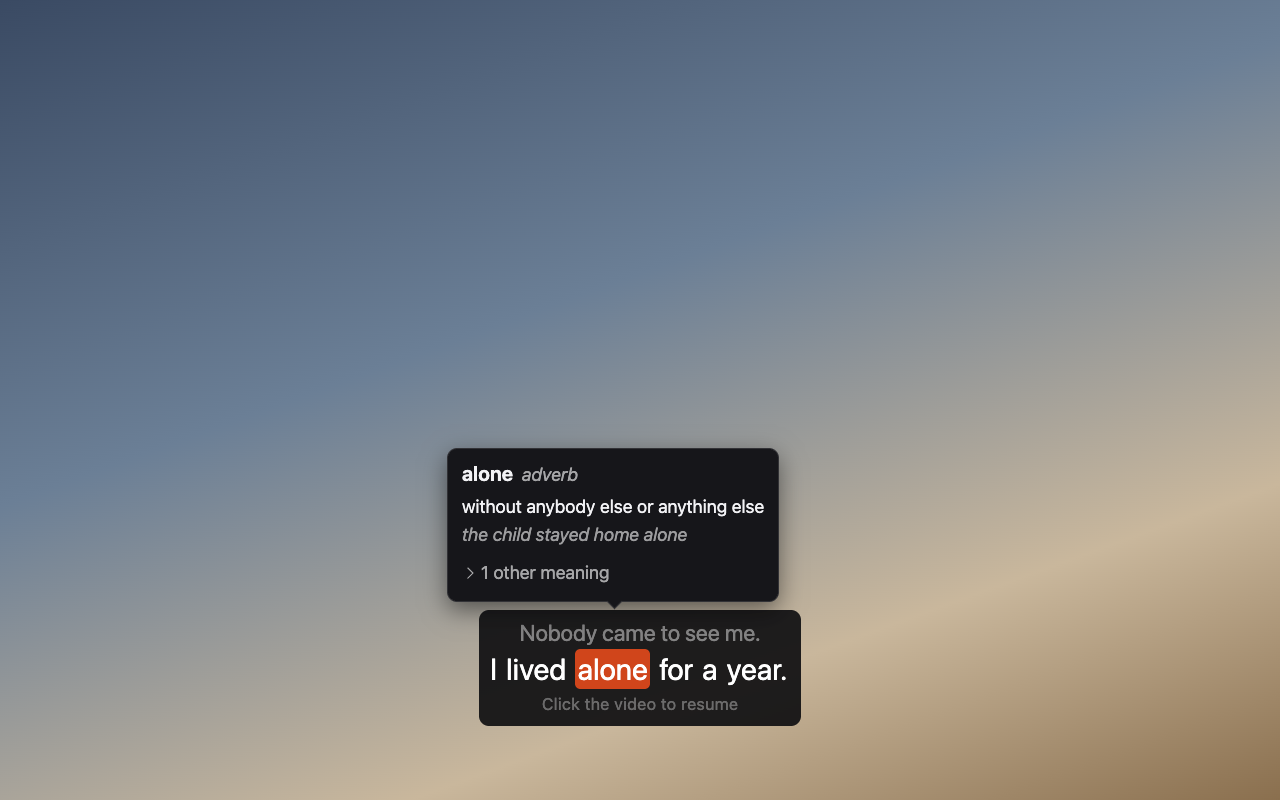
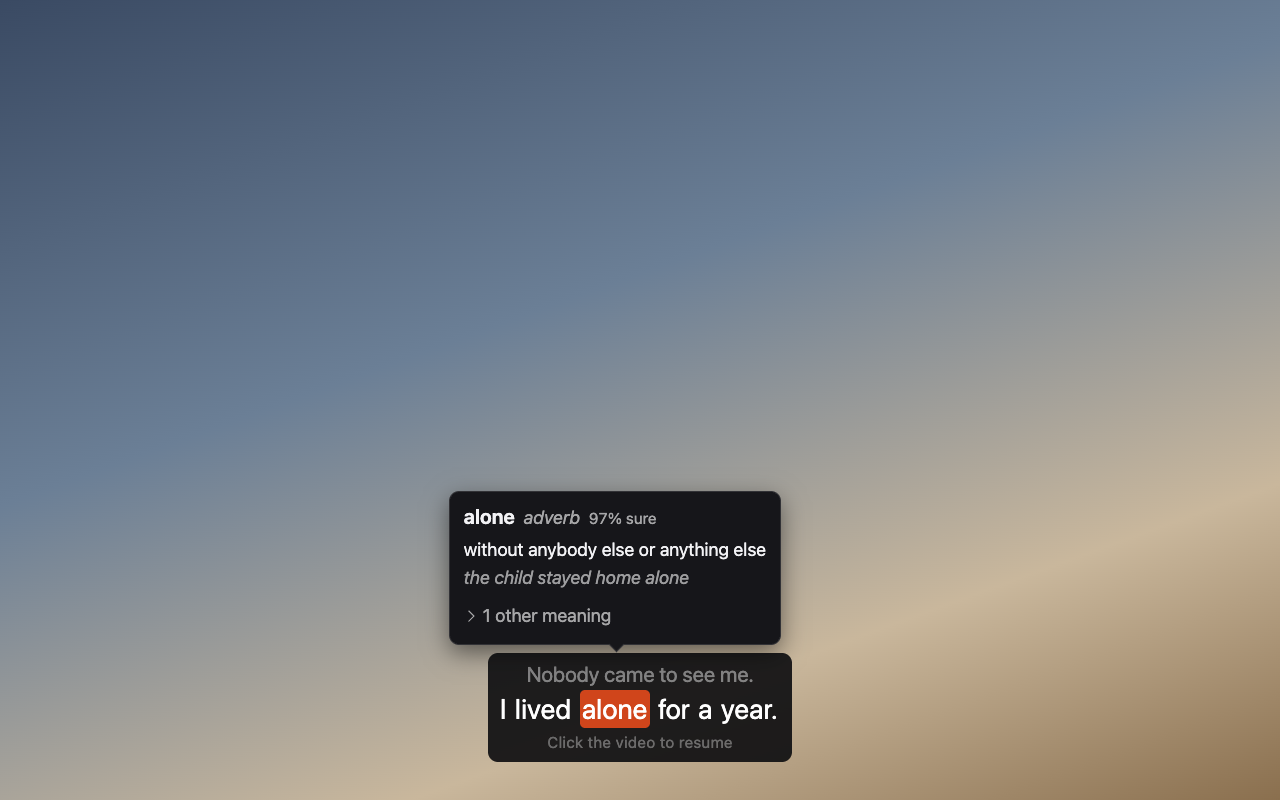
test: rebuild the store screenshots from the extension, and fix the shot spec

Changed region(s): [[0.3438, 0.5625, 0.625, 0.9688]]

diff --git a/tests/store.spec.ts b/tests/store.spec.ts
@@ -1,0 +1,174 @@
+// Writes the three Chrome Web Store screenshots to docs/store, at the 1280 × 800 the
+// store asks for. Not part of `npm test`: it asserts nothing and overwrites the images.
+// Run it with `npm run store` after a change to the card or the log, so the listing
+// never shows an older extension than the one being uploaded.
+import type { BrowserContext, Page, Worker } from "@playwright/test";
+import { test, expect, lookup, settled, watchPage } from "./fixture";
+import type { LogEntry } from "../extension/src/logbook/entry";
+
+const OUT = "docs/store";
+
+/**
+ * A still frame in place of a film: the store's own rules forbid shipping someone
+ * else's footage, and a flat gradient keeps the panel the only thing to read.
+ */
+const scene = `
+  video { width: 1280px; height: 800px; object-fit: cover;
+    background: linear-gradient(160deg,#3a4a63 0%,#6b7f96 40%,#c9b79c 75%,#8a6f4e 100%); }
+  body { background:#000 }
+  /* Roughly YouTube's own caption look, at the height a player really puts it. */
+  .caption-window { bottom: 72px; font: 400 28px/1.35 "Roboto", system-ui, sans-serif; }
+  .ytp-caption-segment { background: rgba(8,8,8,0.75); padding: 2px 6px; }
+`;
+
+/** A paused film with `previous` behind `line`, as the panel shows the pair. */
+async function watching(
+  context: BrowserContext,
+  previous: string,
+  line: string,
+): Promise<Page> {
+  const page = await watchPage(context);
+  await page.setViewportSize({ width: 1280, height: 800 });
+  await page.addStyleTag({ content: scene });
+  await page.evaluate((text) => window.showCaption([text]), previous);
+  await page.waitForTimeout(80);
+  await page.evaluate((text) => window.showCaption([text]), line);
+  await page.waitForTimeout(80);
+  return page;
+}
+
+/** Opens the card on one word of the line and waits for the real model to answer. */
+async function clickWord(page: Page, worker: Worker, word: string) {
+  await lookup(worker);
+  await page.getByRole("button", { name: word, exact: true }).click();
+  const card = page.locator("#vocab-meaning:not(.pending)");
+  await expect(card).toBeVisible({ timeout: 30_000 });
+  await settled(page);
+  return card;
+}
+
+test("@store the card when the model is sure, with how sure it is", async ({
+  context,
+  worker,
+}) => {
+  const page = await watching(
+    context,
+    "Nobody came to see me.",
+    "I lived alone for a year.",
+  );
+  const card = await clickWord(page, worker, "alone");
+  // The point of this shot since phase 18: the card says how sure it is.
+  await expect(card.locator(".sure")).toBeVisible();
+  await page.screenshot({ path: `${OUT}/screenshot-1-sure.png` });
+  await page.close();
+});
+
+test("@store the card when it is not sure, showing the likeliest meanings", async ({
+  context,
+  worker,
+}) => {
+  const page = await watching(
+    context,
+    "It was a big job.",
+    "He had to run the department.",
+  );
+  const card = await clickWord(page, worker, "run");
+  await expect(card.locator(".lead")).toHaveText("Could be any of these");
+  await page.screenshot({ path: `${OUT}/screenshot-2-unsure.png` });
+  await page.close();
+});
+
+test("@store the word log", async ({ context, worker }) => {
+  await seed(worker, [
+    entry({
+      word: "run",
+      headword: "run",
+      partOfSpeech: "verb",
+      confident: false,
+      senses: [
+        { definition: "direct or control; projects, businesses, etc." },
+        { definition: "run, stand, or compete for an office or a position" },
+        { definition: "carry out" },
+      ],
+      line: "He had to run the department.",
+      moment: moment("Office Life: Episode 4", "abc123", 83),
+    }),
+    entry({
+      word: "alone",
+      headword: "alone",
+      partOfSpeech: "adverb",
+      senses: [{ definition: "without anybody else or anything else" }],
+      line: "I lived alone for a year.",
+      moment: moment("Office Life: Episode 4", "abc123", 41),
+    }),
+    entry({
+      word: "ran",
+      headword: "run into",
+      senses: [{ definition: "come together" }],
+      line: "I ran into him at the store.",
+      moment: moment("A Night in Vienna", "def456", 312),
+    }),
+    entry({
+      word: "score",
+      headword: "score",
+      partOfSpeech: "noun",
+      senses: [{ definition: "the act of scoring in a game or sport" }],
+      line: "One last big score and we are out.",
+      moment: moment("The Heist", "ghi789", 127),
+    }),
+  ]);
+
+  const page = await context.newPage();
+  await page.setViewportSize({ width: 1280, height: 800 });
+  await page.goto(new URL("logbook.html", worker.url()).href);
+  await expect(page.getByRole("heading", { name: "Word log" })).toBeVisible();
+  await page.screenshot({ path: `${OUT}/screenshot-3-word-log.png` });
+  await page.close();
+});
+
+function moment(title: string, id: string, seconds: number) {
+  return {
+    platform: "youtube",
+    title,
+    url: `https://www.youtube.com/watch?v=${id}`,
+    seconds,
+  };
+}
+
+let clock = 0;
+
+function entry(overrides: Partial<LogEntry>): LogEntry {
+  return {
+    id: crypto.randomUUID(),
+    // Seeded entries come out newest first, in the order they are listed.
+    savedAt: 1_000_000 - clock++,
+    headword: "run",
+    word: "run",
+    occurrence: 0,
+    senses: [],
+    confident: true,
+    line: "",
+    moment: moment("A film", "abc123", 83),
+    ...overrides,
+  };
+}
+
+/** Writes entries straight into the extension's IndexedDB, as a reader's log would be. */
+async function seed(worker: Worker, entries: LogEntry[]): Promise<void> {
+  await worker.evaluate(
+    (rows) =>
+      new Promise<void>((resolve) => {
+        const open = indexedDB.open("vocabboost", 1);
+        open.onupgradeneeded = () =>
+          open.result
+            .createObjectStore("log", { keyPath: "id" })
+            .createIndex("savedAt", "savedAt");
+        open.onsuccess = () => {
+          const transaction = open.result.transaction("log", "readwrite");
+          rows.forEach((row) => transaction.objectStore("log").put(row));
+          transaction.oncomplete = () => resolve();
+        };
+      }),
+    entries,
+  );
+}

diff --git a/tests/screenshots.spec.ts b/tests/screenshots.spec.ts
@@ -1,7 +1,7 @@
 // Writes PNGs of the panel to ./shots for visual review. Not part of `npm test`: it
 // asserts nothing, and every run overwrites the images. Run it with `npm run shots`.
 import type { BrowserContext } from "@playwright/test";
-import { test, lookup, watchPage } from "./fixture";
+import { test, lookup, settled, watchPage } from "./fixture";
 
 const OUT = process.env.SHOT_DIR ?? "shots";
 
@@ -68,12 +68,15 @@ test("@shots the settings page", async ({ context, worker }) => {
   const page = await context.newPage();
   await page.setViewportSize({ width: 328, height: 400 });
   await page.goto(`chrome-extension://${id}/settings.html`);
+  // The key field belongs to the chosen model, and the built-in one it starts on needs
+  // none, so a model that does has to be picked before there is a field to fill.
+  await page.getByRole("radio", { name: "Claude" }).check();
   await page.locator("#key").fill("sk-ant-api03-x7Kd92mQpLvR4tYn");
   await page.screenshot({ path: `${OUT}/11-settings.png` });
   await page.close();
 });
 
-test("@shots the model's answer, asked for from the card", async ({
+test("@shots the answer of a model that writes one", async ({
   context,
   worker,
 }) => {
@@ -97,21 +100,23 @@ test("@shots the model's answer, asked for from the card", async ({
       }),
     }),
   );
-  await worker.evaluate(() =>
-    chrome.storage.local.set({
-      "key anthropic": "sk-test",
-      provider: "anthropic",
-    }),
-  );
+  // The reader picked Claude in the popup, so it answers the lookup itself: since
+  // phase 20 there is no second step on the card to ask it.
+  await worker.evaluate(async () => {
+    // The key is per provider and stays on the machine; which provider answers is a
+    // preference, so it rides in sync. Putting it in local leaves the built-in model
+    // answering and the shot showing the wrong card.
+    await chrome.storage.local.set({ "key anthropic": "sk-test" });
+    await chrome.storage.sync.set({ provider: "anthropic" });
+  });
 
   await lookup(worker);
   const word = page.getByRole("button", { name: "alone", exact: true });
   await word.click();
-  await page.waitForTimeout(400);
-  await page.screenshot({ path: `${OUT}/9-ask.png` });
-
-  await page.locator("#vocab-meaning .ask").click();
-  await page.waitForTimeout(600);
+  // The card opens saying "Looking up…" and fills in when the answer lands; waiting a
+  // fixed moment instead photographs whichever of the two the machine was showing.
+  await page.waitForSelector("#vocab-meaning:not(.pending)");
+  await settled(page);
 
   const box = await page.locator("#vocab-panel").boundingBox();
   const m = await page.locator("#vocab-meaning").boundingBox();

diff --git a/playwright.config.ts b/playwright.config.ts
@@ -6,13 +6,14 @@ export default defineConfig({
   workers: 1,
   fullyParallel: false,
   reporter: [["list"]],
-  // Live tests hit youtube.com (`npm run test:live`), the shot spec only writes images
-  // (`npm run shots`), and the memory spec is slow and machine-dependent
-  // (`npm run test:memory`), and the comparison spec writes research data
-  // (`npm run test:comparison`). None belongs in the deterministic suite.
+  // Live tests hit youtube.com (`npm run test:live`), the shot and store specs only
+  // write images (`npm run shots`, `npm run store`), the memory spec is slow and
+  // machine-dependent (`npm run test:memory`), and the comparison spec writes research
+  // data (`npm run test:comparison`). None belongs in the deterministic suite.
   grepInvert: [
     ...(process.env.LIVE ? [] : [/@live/]),
     ...(process.env.SHOTS ? [] : [/@shots/]),
+    ...(process.env.STORE ? [] : [/@store/]),
     ...(process.env.MEMORY ? [] : [/@memory/]),
     ...(process.env.COMPARISON ? [] : [/@comparison/]),
   ],

diff --git a/PLAN.md b/PLAN.md
@@ -102,7 +102,8 @@ The free dictionary built here was replaced by the local model in phase 16.
 - [x] Privacy policy, store listing, permission reasons and store screenshots
 - [ ] Check by hand before publishing: live captions on YouTube, Netflix and Prime, the
       keyboard shortcut, and a real Jev, Claude and OpenAI call
-- [ ] Store screenshots are from before the card said how sure it is; retake them
+- [x] Store screenshots rebuilt with the phase 18 card (`npm run store`), so the
+      listing never shows an older extension than the one uploaded
 - [ ] Publish on the Chrome Web Store
 
 ## Testing
@@ -112,6 +113,7 @@ Playwright runs a real Chromium with the built extension.
 - `npm test`: the full suite, with pages served from fixtures under the real URLs
 - `npm run test:live`: checks the DOM contract on youtube.com
 - `npm run shots`: screenshots for visual review
+- `npm run store`: the three store screenshots, into `docs/store`
 - `npm run test:memory`: checks the model's memory is given back (slow)
 - `npm run recording`: rebuilds `docs/flow.gif` (needs ffmpeg)
 

diff --git a/docs/store/listing.md b/docs/store/listing.md
@@ -67,4 +67,4 @@ word and its subtitle are sent to the company the user chose.
 ## Assets
 
 - Icon: `icon-128.png`
-- Screenshots, 1280 × 800: `screenshot-*.png`
+- Screenshots, 1280 × 800: `screenshot-*.png`, rebuilt with `npm run store`
